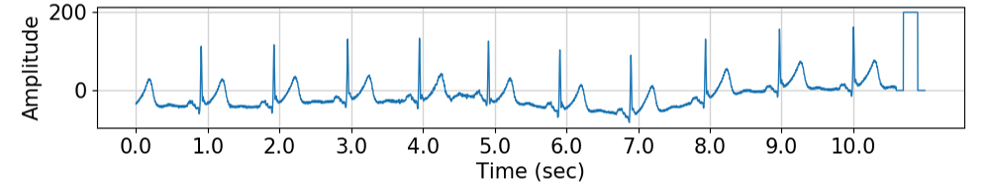
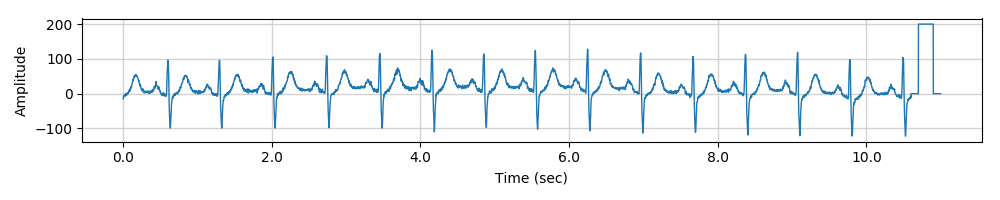
readme

Changed region(s): [[0.0, 0.0, 1.0, 0.8289], [0.4848, 0.8556, 0.6061, 0.9626]]

diff --git a/README.md b/README.md
@@ -40,6 +40,15 @@ $ python preprocessing.py
 $ python preprocessing.py --help // for confirming the option
 ```
 
+In the process of executing the above source code, pulse segmentation is performed by voting and choosing the location of the QRS complex as shown below.  
+
+<div align="center">
+  <img src="./figures/qrs_lead_i.png" width="500">  
+  <img src="./figures/qrs_lead_avr.png"  width="500">  
+  <img src="./figures/qrs_voted.png"  width="500">  
+  <p>The top of the figure shows location voting result for finding the QRS complex. Lower two figure shows most voted time location as QRS complex at lead-I and lead-aVR respectively.</p>
+</div>
+
 ### Training and Test
 ```
 $ cd CNN
